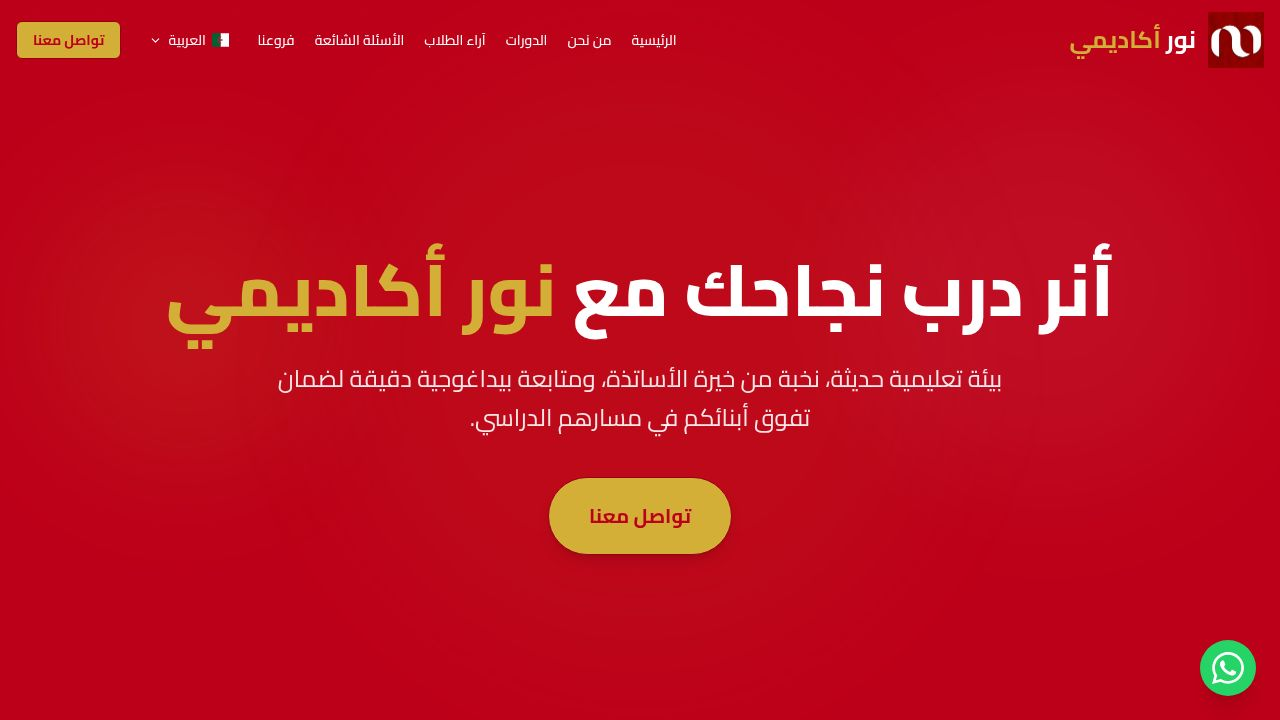
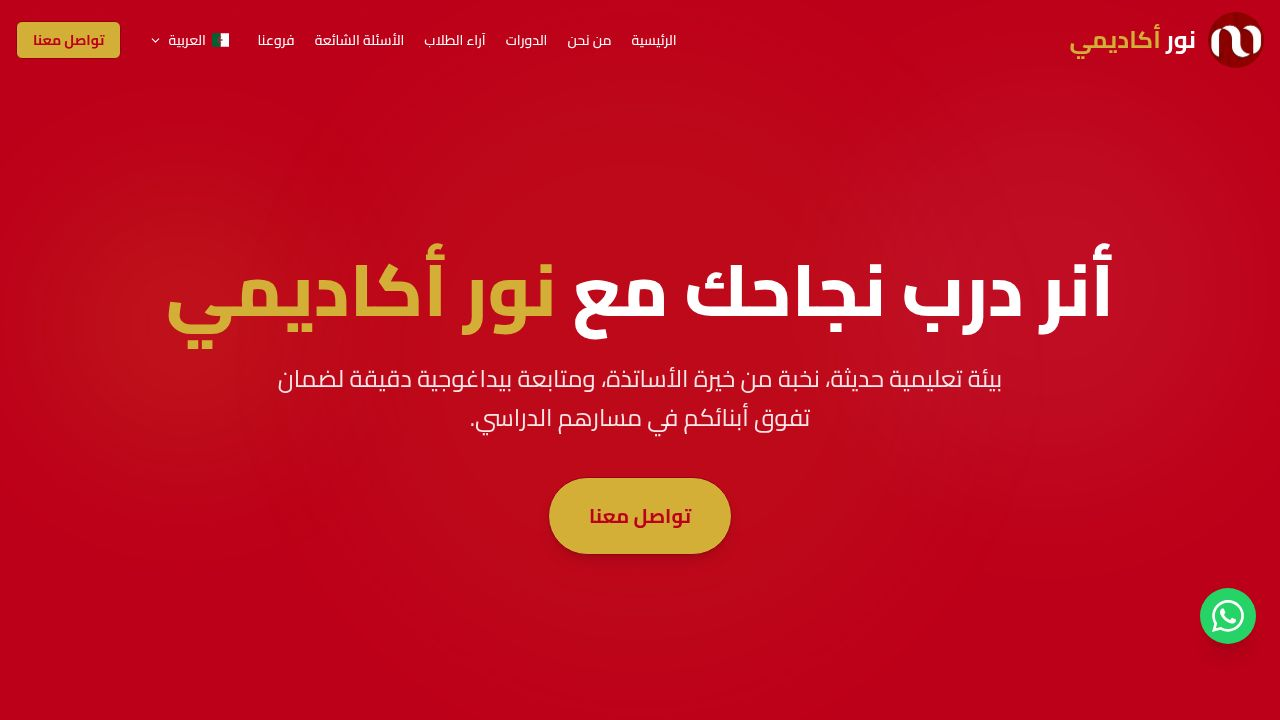
Add a sticky bottom tab bar for mobile navigation
Implement a mobile-only sticky bottom tab bar with scroll-based active highlighting, replacing the hamburger menu and integrating with existing navigation elements.

Replit-Commit-Author: Agent
Replit-Commit-Session-Id: 2ea381ba-84b8-4529-9b60-b1d3ad56763b
Replit-Commit-Checkpoint-Type: full_checkpoint
Replit-Commit-Event-Id: 96e4a89e-edf8-4ad8-bd86-57148eafff2c
Replit-Commit-Screenshot-Url: https://storage.googleapis.com/screenshot-production-us-central1/daaffcce-08d1-4d90-a5b2-9fe3956ef1a8/2ea381ba-84b8-4529-9b60-b1d3ad56763b/e0jJi9V
Replit-Helium-Checkpoint-Created: true

Changed region(s): [[0.9375, 0.7944, 1.0, 0.9778], [0.9375, 0.0611, 1.0, 0.0917], [0.9375, 0.0, 1.0, 0.0306]]

diff --git a/artifacts/nour-academy/src/pages/Home.tsx b/artifacts/nour-academy/src/pages/Home.tsx
@@ -38,6 +38,8 @@ import {
   Rocket,
   Dna,
   Sigma,
+  Home as HomeIcon,
+  HelpCircle,
   type LucideIcon,
 } from "lucide-react";
 import { Button } from "@/components/ui/button";
@@ -210,10 +212,73 @@ function LanguageDropdown() {
   );
 }
 
+// --- Bottom Tab Bar (mobile only) ---
+function BottomTabBar() {
+  const { t } = useLang();
+  const [active, setActive] = useState("hero");
+
+  const tabs = [
+    { id: "hero",     icon: HomeIcon,   label: t.nav.home },
+    { id: "courses",  icon: BookOpen,   label: t.nav.courses },
+    { id: "branches", icon: MapPin,     label: t.nav.branches },
+    { id: "faq",      icon: HelpCircle, label: t.nav.faq },
+    { id: "contact",  icon: Phone,      label: t.nav.contact },
+  ];
+
+  useEffect(() => {
+    const sections = tabs.map((tab) => document.getElementById(tab.id)).filter(Boolean) as HTMLElement[];
+    const observer = new IntersectionObserver(
+      (entries) => {
+        const visible = entries.filter((e) => e.isIntersecting);
+        if (visible.length > 0) {
+          const topmost = visible.reduce((a, b) =>
+            a.boundingClientRect.top < b.boundingClientRect.top ? a : b
+          );
+          setActive((topmost.target as HTMLElement).id);
+        }
+      },
+      { threshold: 0.3 }
+    );
+    sections.forEach((s) => observer.observe(s));
+    return () => observer.disconnect();
+  }, []);
+
+  const handleClick = (id: string) => {
+    document.getElementById(id)?.scrollIntoView({ behavior: "smooth" });
+    setActive(id);
+  };
+
+  return (
+    <nav className="md:hidden fixed bottom-0 left-0 right-0 z-50 bg-primary/95 backdrop-blur-md border-t border-white/10 flex items-stretch"
+      style={{ paddingBottom: "env(safe-area-inset-bottom)" }}
+    >
+      {tabs.map(({ id, icon: Icon, label }) => {
+        const isActive = active === id;
+        return (
+          <button
+            key={id}
+            onClick={() => handleClick(id)}
+            className={`flex-1 flex flex-col items-center justify-center gap-0.5 py-2.5 transition-all duration-200 ${
+              isActive ? "text-gold" : "text-white/60 hover:text-white"
+            }`}
+          >
+            <Icon size={20} strokeWidth={isActive ? 2.5 : 1.8} />
+            <span className={`text-[10px] font-semibold leading-tight ${isActive ? "text-gold" : "text-white/50"}`}>
+              {label}
+            </span>
+            {isActive && (
+              <span className="absolute bottom-0 w-6 h-0.5 bg-gold rounded-full" style={{ marginBottom: "env(safe-area-inset-bottom)" }} />
+            )}
+          </button>
+        );
+      })}
+    </nav>
+  );
+}
+
 // --- Navbar ---
 function Navbar() {
   const [scrolled, setScrolled] = useState(false);
-  const [mobileOpen, setMobileOpen] = useState(false);
   const { t, lang, setLang, dir } = useLang();
 
   useEffect(() => {
@@ -259,47 +324,11 @@ function Navbar() {
           </Button>
         </div>
 
-        {/* Mobile: language toggle + hamburger */}
+        {/* Mobile: language toggle only (navigation handled by BottomTabBar) */}
         <div className="md:hidden flex items-center gap-2">
           <LanguageDropdown />
-          <button
-            className="text-white p-1"
-            onClick={() => setMobileOpen(!mobileOpen)}
-            aria-label="Toggle menu"
-          >
-            <Menu size={28} />
-          </button>
         </div>
       </div>
-
-      {/* Mobile Menu */}
-      <AnimatePresence>
-        {mobileOpen && (
-          <motion.div
-            initial={{ opacity: 0, y: -10 }}
-            animate={{ opacity: 1, y: 0 }}
-            exit={{ opacity: 0, y: -10 }}
-            transition={{ duration: 0.18 }}
-            dir={dir}
-            className="md:hidden bg-primary/95 backdrop-blur-md shadow-lg absolute top-20 left-0 right-0 p-5 flex flex-col gap-4 text-white text-center font-medium"
-          >
-            <a href="#hero" onClick={() => setMobileOpen(false)}>{t.nav.home}</a>
-            <a href="#about" onClick={() => setMobileOpen(false)}>{t.nav.about}</a>
-            <a href="#courses" onClick={() => setMobileOpen(false)}>{t.nav.courses}</a>
-            <a href="#testimonials" onClick={() => setMobileOpen(false)}>{t.nav.testimonials}</a>
-            <a href="#faq" onClick={() => setMobileOpen(false)}>{t.nav.faq}</a>
-            <a href="#branches" onClick={() => setMobileOpen(false)}>{t.nav.branches}</a>
-
-            <Button
-              asChild
-              className="bg-gold text-primary hover:bg-gold-dark font-bold w-full mt-1"
-              onClick={() => setMobileOpen(false)}
-            >
-              <a href="#contact">{t.nav.contact}</a>
-            </Button>
-          </motion.div>
-        )}
-      </AnimatePresence>
     </nav>
   );
 }
@@ -1157,7 +1186,7 @@ function Footer() {
 export default function Home() {
   const { dir } = useLang();
   return (
-    <div className="min-h-screen bg-background overflow-x-hidden" dir={dir}>
+    <div className="min-h-screen bg-background overflow-x-hidden pb-[calc(64px+env(safe-area-inset-bottom))] md:pb-0" dir={dir}>
       <Navbar />
       <Hero />
       <About />
@@ -1182,19 +1211,21 @@ export default function Home() {
       <Contact />
       <Footer />
 
-      {/* WhatsApp Button */}
+      {/* WhatsApp Button — raised on mobile to sit above the bottom tab bar */}
       <a
         href="https://api.whatsapp.com/send?phone=213770764200&text=%D9%84%D8%AF%D9%8A%20%D8%A7%D8%B3%D8%AA%D9%81%D8%B3%D8%A7%D8%B1"
         target="_blank"
         rel="noopener noreferrer"
-        className="fixed bottom-6 start-6 z-50 w-14 h-14 flex items-center justify-center rounded-full shadow-xl hover:scale-110 transition-transform"
-        style={{ background: "#25D366" }}
+        className="fixed bottom-6 md:bottom-6 start-6 z-50 w-14 h-14 flex items-center justify-center rounded-full shadow-xl hover:scale-110 transition-transform"
+        style={{ background: "#25D366", bottom: "calc(4rem + env(safe-area-inset-bottom) + 0.75rem)" }}
         aria-label="WhatsApp"
       >
         <svg viewBox="0 0 24 24" fill="white" className="w-8 h-8">
           <path d="M17.472 14.382c-.297-.149-1.758-.867-2.03-.967-.273-.099-.471-.148-.67.15-.197.297-.767.966-.94 1.164-.173.199-.347.223-.644.075-.297-.15-1.255-.463-2.39-1.475-.883-.788-1.48-1.761-1.653-2.059-.173-.297-.018-.458.13-.606.134-.133.298-.347.446-.52.149-.174.198-.298.298-.497.099-.198.05-.371-.025-.52-.075-.149-.669-1.612-.916-2.207-.242-.579-.487-.5-.669-.51-.173-.008-.371-.01-.57-.01-.198 0-.52.074-.792.372-.272.297-1.04 1.016-1.04 2.479 0 1.462 1.065 2.875 1.213 3.074.149.198 2.096 3.2 5.077 4.487.709.306 1.262.489 1.694.625.712.227 1.36.195 1.871.118.571-.085 1.758-.719 2.006-1.413.248-.694.248-1.289.173-1.413-.074-.124-.272-.198-.57-.347m-5.421 7.403h-.004a9.87 9.87 0 01-5.031-1.378l-.361-.214-3.741.982.998-3.648-.235-.374a9.86 9.86 0 01-1.51-5.26c.001-5.45 4.436-9.884 9.888-9.884 2.64 0 5.122 1.03 6.988 2.898a9.825 9.825 0 012.893 6.994c-.003 5.45-4.437 9.884-9.885 9.884m8.413-18.297A11.815 11.815 0 0012.05 0C5.495 0 .16 5.335.157 11.892c0 2.096.547 4.142 1.588 5.945L.057 24l6.305-1.654a11.882 11.882 0 005.683 1.448h.005c6.554 0 11.89-5.335 11.893-11.893a11.821 11.821 0 00-3.48-8.413z"/>
         </svg>
       </a>
+
+      <BottomTabBar />
     </div>
   );
 }
